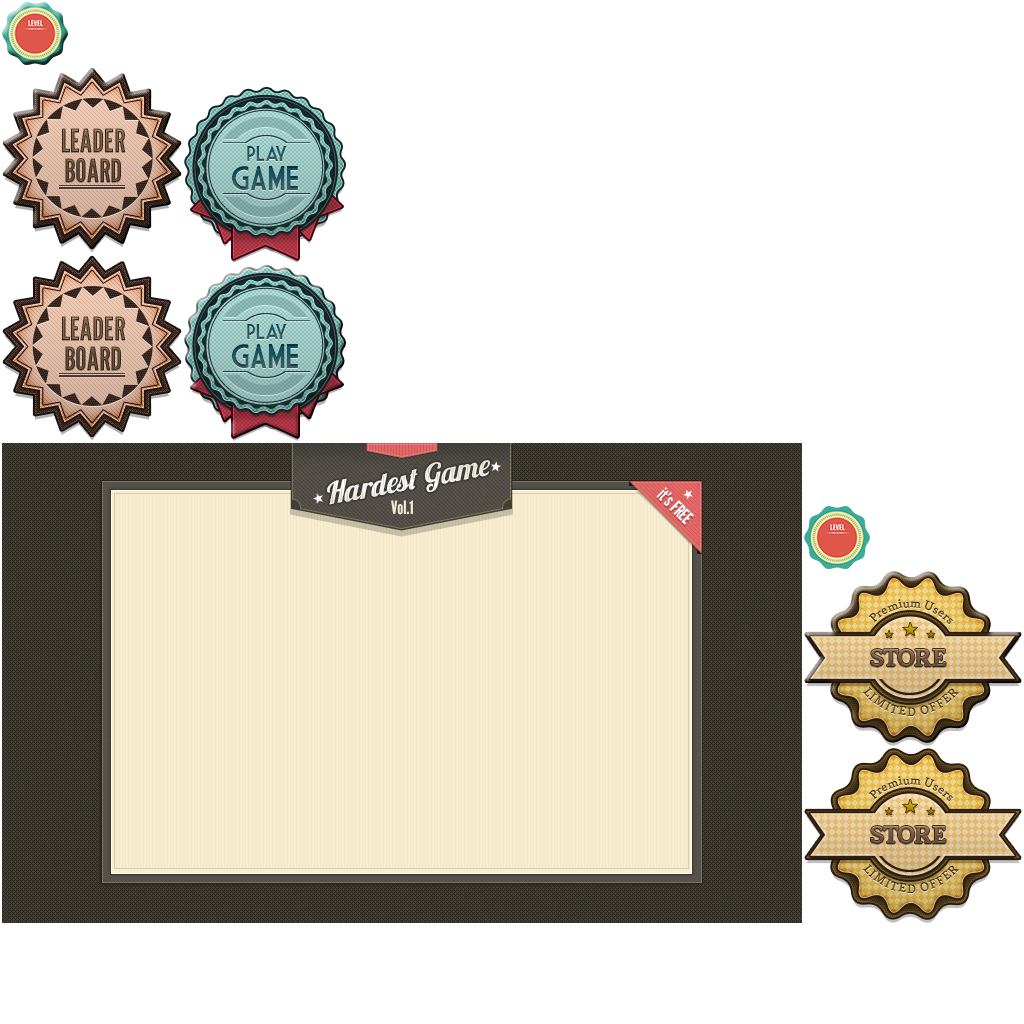
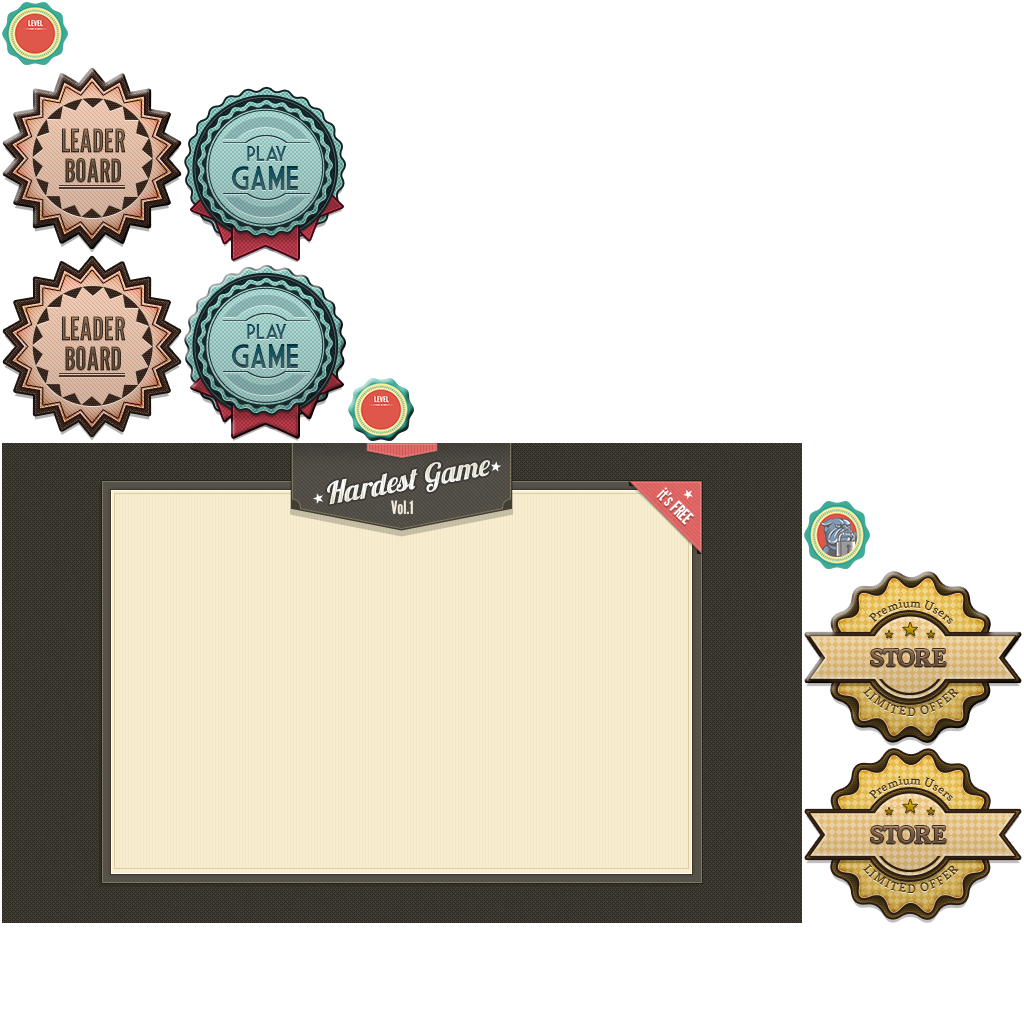
Lock Symbol Fixed
Probably final commit

Changed region(s): [[0.7812, 0.4688, 0.8438, 0.5625], [0.3438, 0.375, 0.4062, 0.4375], [0.0, 0.0, 0.0625, 0.0625]]

diff --git a/core/src/net/ws3/hard/screens/LevelScreen.java b/core/src/net/ws3/hard/screens/LevelScreen.java
@@ -63,16 +63,20 @@ public class LevelScreen implements Screen{
 		table.setFillParent(true);
 		
 		for(int i = 1; i <= 30; i++){
-			if(UserData.isLevelLocked(i))
-				textButton = new TextButton("L", skin);
+			if(UserData.isLevelLocked(i)){
+				if(i % 8 != 0)
+					table.add(new Image(skin.getDrawable("locked"))).padRight(5).padBottom(5);
+				else
+					table.add(new Image(skin.getDrawable("locked"))).padBottom(5).row();
+			}
 			else{
 				textButton = new TextButton("" + i, skin);
 				textButton.addListener(new LevelListener(game, i));
+				if(i % 8 != 0)
+					table.add(textButton).padRight(5).padBottom(5);
+				else
+					table.add(textButton).padBottom(5).row();
 			}
-			if(i % 8 != 0)
-				table.add(textButton).padRight(5).padBottom(5);
-			else
-				table.add(textButton).padBottom(5).row();
 		}
 		
 		stage.addActor(new Image(skin, "mainmenubg"));

diff --git a/android/src/net/ws3/hard/android/AndroidLauncher.java b/android/src/net/ws3/hard/android/AndroidLauncher.java
@@ -114,6 +114,24 @@ public class AndroidLauncher extends AndroidApplication implements GameHelperLis
 	}
 	
 	@Override
+	public void onResume() {
+		super.onResume();
+		if (adView != null) adView.resume();
+	}
+
+	@Override
+	public void onPause() {
+		super.onPause();
+		if (adView != null) adView.pause();
+	}
+
+	@Override
+	public void onDestroy() {
+		super.onDestroy();
+		if (adView != null) adView.destroy();
+	}
+	
+	@Override
 	public void onActivityResult(int request, int response, Intent data){
 		super.onActivityResult(request, response, data);
 		gameHelper.onActivityResult(request, response, data);
